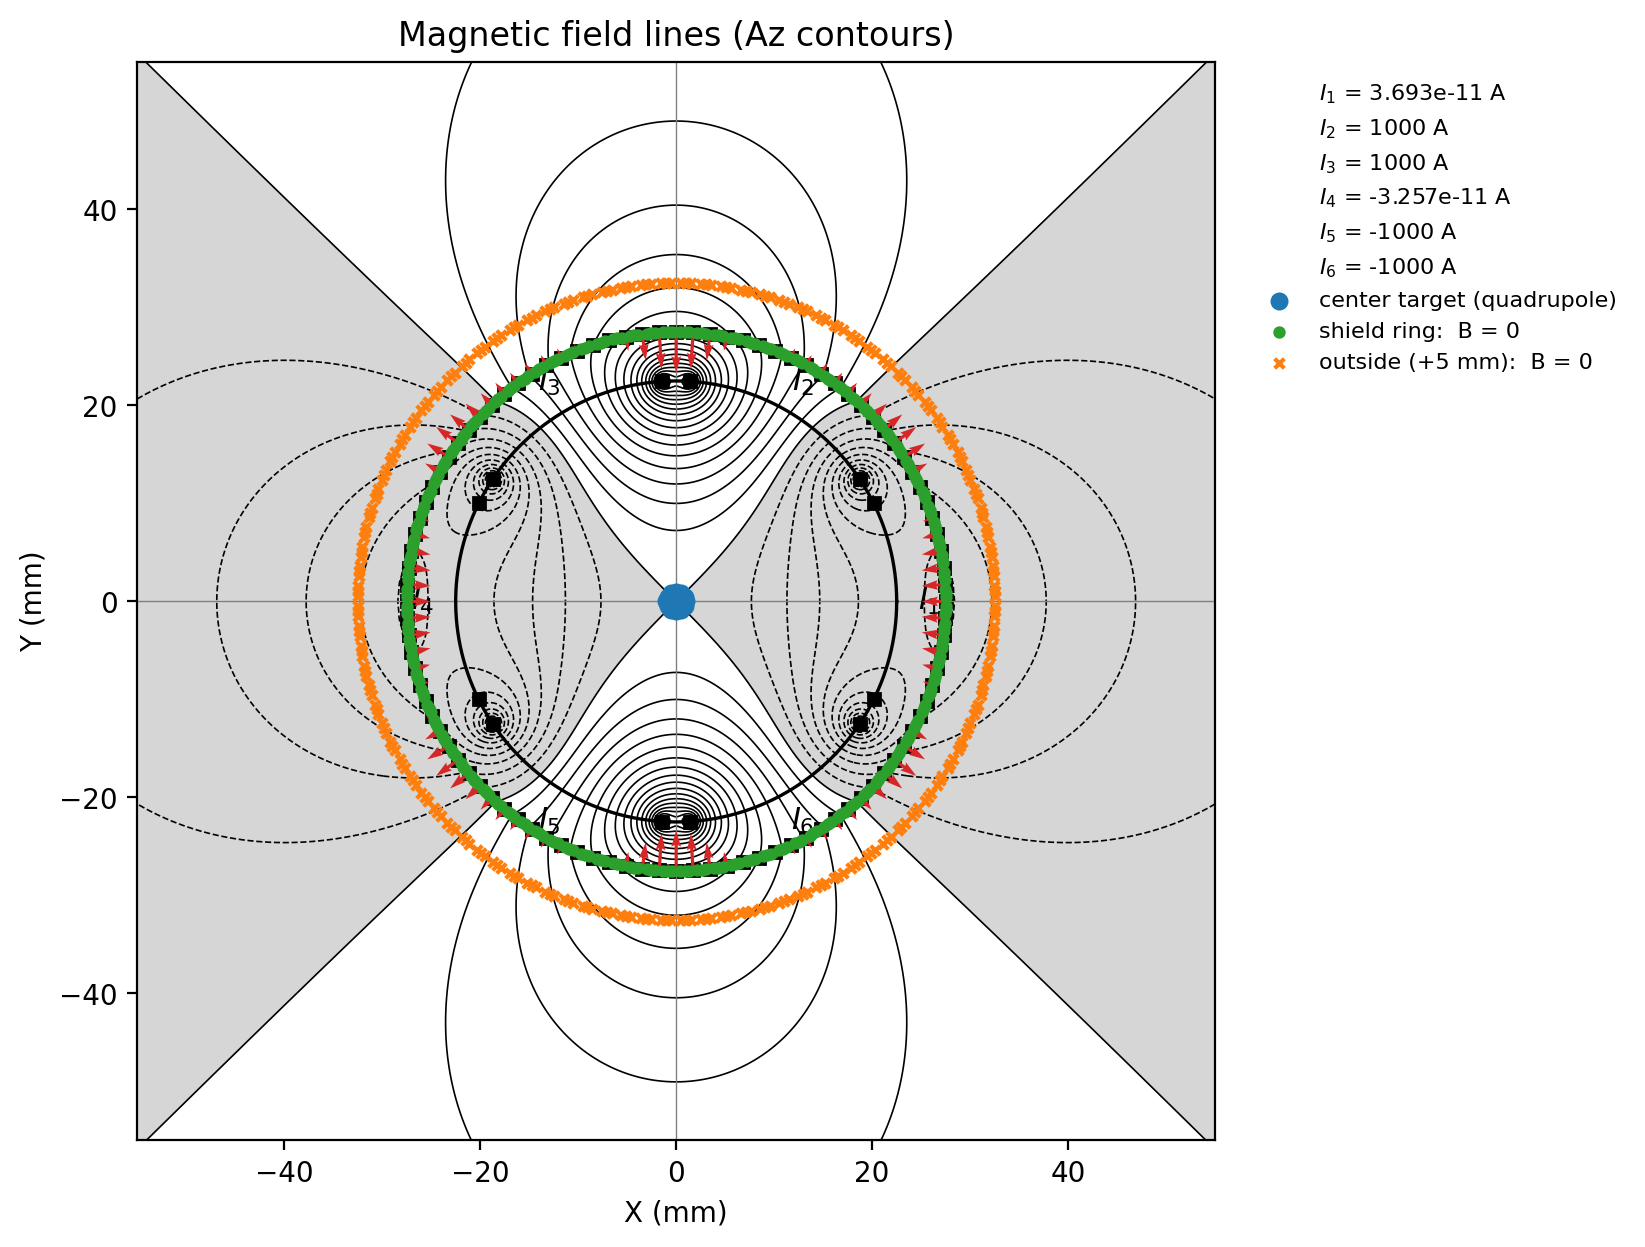
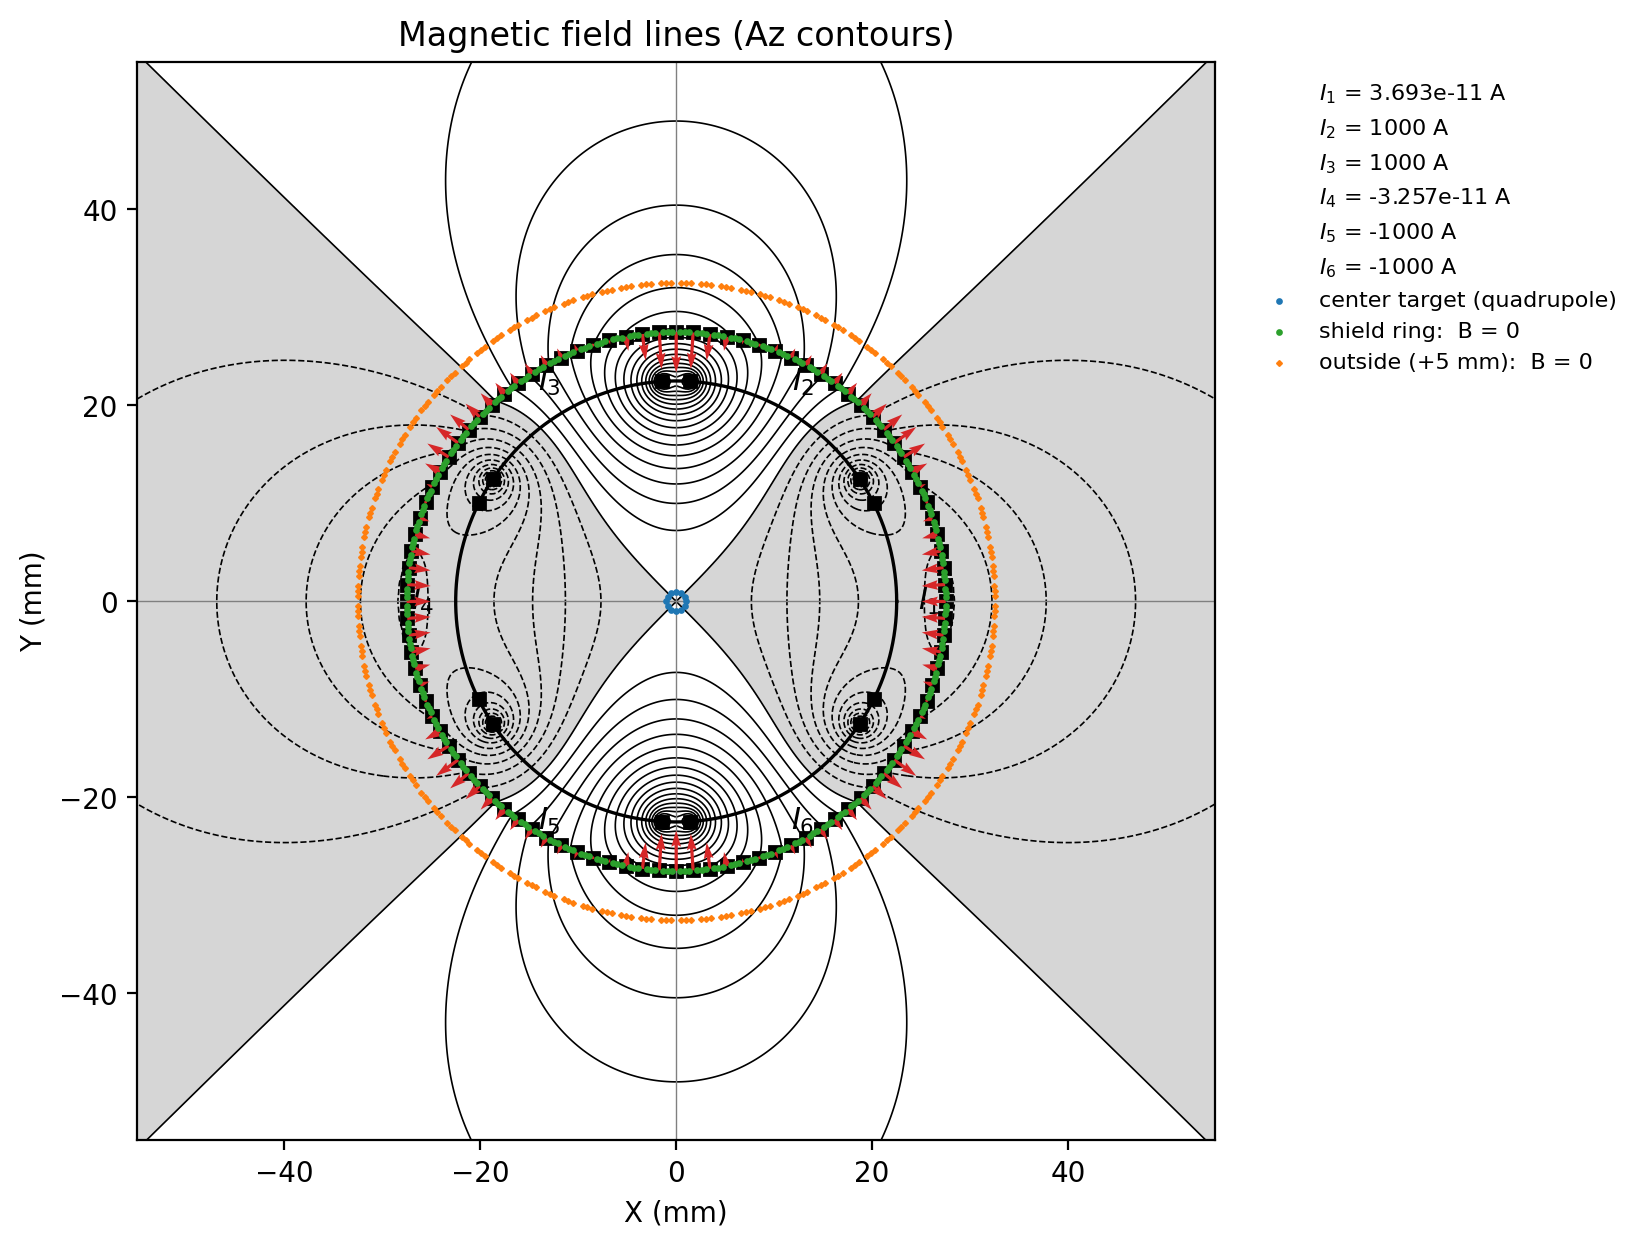
Enhance interactive features: adjust scatter point sizes for clarity, improve tooltip behavior, and add hover-arrow scaling for better visualization

Changed region(s): [[0.217, 0.2133, 0.6201, 0.7314], [0.372, 0.7314, 0.465, 0.7618], [0.403, 0.4571, 0.434, 0.518]]

diff --git a/interactive_plot.py b/interactive_plot.py
@@ -70,13 +70,23 @@ def format_B(value):
     return f"{sign}{mag / 1e-9:.4g} nT"
 
 
-def _readout_artists(ax, animated=False):
-    """Create the (hidden) tooltip and direction-arrow artists on ax."""
-    annot = ax.annotate(
-        "", xy=(0, 0), xytext=(15, 15), textcoords="offset points",
-        fontsize=9, zorder=10, visible=False, animated=animated,
-        bbox=dict(boxstyle="round", fc="lightyellow", ec="0.5", alpha=0.9),
-    )
+def _readout_artists(ax, animated=False, fixed=False):
+    """Create the (hidden) tooltip and direction-arrow artists on ax.
+
+    fixed=True pins the tooltip to a fixed corner of the axes (updated in
+    place, not following the cursor)."""
+    if fixed:
+        annot = ax.text(
+            0.015, 0.985, "", transform=ax.transAxes, ha="left", va="top",
+            fontsize=9, zorder=10, visible=False, animated=animated,
+            bbox=dict(boxstyle="round", fc="lightyellow", ec="0.5", alpha=0.9),
+        )
+    else:
+        annot = ax.annotate(
+            "", xy=(0, 0), xytext=(15, 15), textcoords="offset points",
+            fontsize=9, zorder=10, visible=False, animated=animated,
+            bbox=dict(boxstyle="round", fc="lightyellow", ec="0.5", alpha=0.9),
+        )
     arrow = ax.quiver(
         [0.0], [0.0], [1.0], [0.0], angles="xy", scale_units="xy", scale=1,
         color="tab:blue", width=0.006, zorder=9, visible=False, animated=animated,
@@ -84,15 +94,27 @@ def _readout_artists(ax, animated=False):
     return annot, arrow
 
 
-def _update_readout(event, ax, coils, annot, arrow, arrow_frac=0.08):
+def _update_readout(event, ax, coils, annot, arrow, arrow_frac=0.08,
+                    force_arrow=None, arrow_scale=None, arrow_max=None,
+                    move_annot=True):
     """
-    Update the tooltip + arrow from a mouse-motion event.
+    Update the tooltip + arrow(s) from a mouse-motion event.
     Returns True if the readout changed (needs re-blit/redraw).
+
+    arrow_scale: if given, arrow length (data units, mm) = arrow_scale*|B|
+    (capped at arrow_max), i.e. proportional to the field magnitude. If
+    None, the arrow is a fixed length (arrow_frac of the view width).
+    force_arrow: optional quiver drawn along the muon Lorentz force
+    F = q v x B (same length as the field arrow).
+    move_annot: if False the tooltip is not repositioned (kept pinned).
     """
     if event.inaxes is not ax or event.xdata is None:
-        if annot.get_visible() or arrow.get_visible():
+        force_vis = force_arrow is not None and force_arrow.get_visible()
+        if annot.get_visible() or arrow.get_visible() or force_vis:
             annot.set_visible(False)
             arrow.set_visible(False)
+            if force_arrow is not None:
+                force_arrow.set_visible(False)
             return True
         return False
 
@@ -100,16 +122,20 @@ def _update_readout(event, ax, coils, annot, arrow, arrow_frac=0.08):
     try:
         Bx, By = coils.B_field(x, y)
     except ValueError:  # cursor sitting exactly on a conductor
-        annot.xy = (x, y)
+        if move_annot:
+            annot.xy = (x, y)
         annot.set_text(f"({x:.2f}, {y:.2f}) mm\non a conductor (field singular)")
         annot.set_visible(True)
         arrow.set_visible(False)
+        if force_arrow is not None:
+            force_arrow.set_visible(False)
         return True
 
     B_mag = float(np.hypot(Bx, By))
     angle = np.degrees(np.arctan2(By, Bx))  # direction, deg CCW from +x
 
-    annot.xy = (x, y)
+    if move_annot:
+        annot.xy = (x, y)
     annot.set_text(
         f"({x:.2f}, {y:.2f}) mm\n"
         f"|B| = {format_B(B_mag)}\n"
@@ -119,13 +145,27 @@ def _update_readout(event, ax, coils, annot, arrow, arrow_frac=0.08):
     annot.set_visible(True)
 
     if B_mag > 0:
-        xlim = ax.get_xlim()
-        length = arrow_frac * (xlim[1] - xlim[0])
+        if arrow_scale is not None:
+            length = arrow_scale * B_mag              # mm, proportional to |B|
+            if arrow_max is not None:
+                length = min(length, arrow_max)
+        else:
+            xlim = ax.get_xlim()
+            length = arrow_frac * (xlim[1] - xlim[0])
+        ux, uy = Bx / B_mag, By / B_mag
         arrow.set_offsets([[x, y]])
-        arrow.set_UVC([length * Bx / B_mag], [length * By / B_mag])
+        arrow.set_UVC([length * ux], [length * uy])
         arrow.set_visible(True)
+        if force_arrow is not None:
+            # muon mu+ into the screen (v = -z): F = q v x B = e(By, -Bx),
+            # perpendicular to B, same length (|F| prop to |B|).
+            force_arrow.set_offsets([[x, y]])
+            force_arrow.set_UVC([length * uy], [length * (-ux)])
+            force_arrow.set_visible(True)
     else:
         arrow.set_visible(False)
+        if force_arrow is not None:
+            force_arrow.set_visible(False)
 
     return True
 
@@ -146,12 +186,23 @@ class _HoverReadout:
     # trail further and further behind the cursor
     MIN_INTERVAL = 1.0 / 120.0
 
-    def __init__(self, fig, ax, get_coils, arrow_frac=0.08):
+    def __init__(self, fig, ax, get_coils, arrow_frac=0.08, show_force=False,
+                 arrow_scale=None, arrow_max=None, annot_fixed=False):
         self.fig = fig
         self.ax = ax
         self.get_coils = get_coils
         self.arrow_frac = arrow_frac
-        self.annot, self.arrow = _readout_artists(ax, animated=True)
+        self.arrow_scale = arrow_scale
+        self.arrow_max = arrow_max
+        self.annot_fixed = annot_fixed
+        self.annot, self.arrow = _readout_artists(ax, animated=True, fixed=annot_fixed)
+        if show_force:
+            self.force_arrow = ax.quiver(
+                [0.0], [0.0], [0.0], [0.0], angles="xy", scale_units="xy", scale=1,
+                color="tab:red", width=0.006, zorder=9, visible=False, animated=True,
+            )
+        else:
+            self.force_arrow = None
         self._bg = None
         self._last_region = None  # display-space bbox drawn last frame
         self._last_time = 0.0
@@ -182,7 +233,12 @@ class _HoverReadout:
             # quiver window extent is unreliable; build a box around the
             # arrow base with radius = max arrow length in pixels
             px, py = self.ax.transData.transform(self.arrow.get_offsets()[0])
-            r = self.ax.bbox.width * self.arrow_frac * 1.6
+            if self.arrow_scale is not None and self.arrow_max is not None:
+                x0, x1 = self.ax.get_xlim()
+                reach_frac = self.arrow_max / abs(x1 - x0)   # mm -> view fraction
+            else:
+                reach_frac = self.arrow_frac
+            r = self.ax.bbox.width * reach_frac * 1.6
             boxes.append(Bbox([[px - r, py - r], [px + r, py + r]]))
 
         new = Bbox.union(boxes).padded(12) if boxes else None
@@ -208,7 +264,10 @@ class _HoverReadout:
                 return
             self._last_time = now
 
-        if not _update_readout(event, self.ax, coils, self.annot, self.arrow, self.arrow_frac):
+        if not _update_readout(event, self.ax, coils, self.annot, self.arrow,
+                               self.arrow_frac, self.force_arrow,
+                               self.arrow_scale, self.arrow_max,
+                               move_annot=not self.annot_fixed):
             return
         if self._bg is None:  # no full draw yet; fall back
             self.fig.canvas.draw_idle()
@@ -218,6 +277,8 @@ class _HoverReadout:
         canvas.restore_region(self._bg)
         self.ax.draw_artist(self.annot)
         self.ax.draw_artist(self.arrow)
+        if self.force_arrow is not None:
+            self.ax.draw_artist(self.force_arrow)
         # push only the small dirty region to the screen -- copying the
         # whole ~1100x650 px figure per mouse move is what feels "laggy"
         # on slower backends (especially TkAgg)

diff --git a/interactive_rotation.py b/interactive_rotation.py
@@ -45,6 +45,11 @@ G = 1e-3              # target field gradient, T/mm
 N_SAMPLE = 12        # number of sample points on the ring
 MAX_CURRENT = 1000.0  # solved currents are rescaled so max|I| = this (A) for display
 
+# hover-arrow scaling (both the blue B arrow and the red muon-force arrow):
+#   length (mm) = ARROW_MM_PER_TESLA * |B| ,  capped at ARROW_MAX_MM
+ARROW_MM_PER_TESLA = 400.0   # proportionality: arrow length in mm per tesla of |B|
+ARROW_MAX_MM = 15.0          # hard upper limit on arrow length, mm
+
 
 def rotated_quad_target(x, y, theta):
     """(Bx, By) [T] of a quadrupole field rotated by theta (rad)."""
@@ -76,7 +81,7 @@ class RotationPanel:
         self.fig = plt.figure(figsize=(8, 7.6))
         self.ax = self.fig.add_axes([0.10, 0.26, 0.80, 0.66])
         self.fig.text(0.5, 0.005,
-                      "Drag θ / radius (or type a value); currents & residual re-solve live",
+                      "Hover: blue = B, red = muon force (μ+ into screen), length ∝ |B|",
                       ha="center", fontsize=8, color="gray")
         self._field_artists = []
         self._draw_static()
@@ -93,7 +98,11 @@ class RotationPanel:
         self.radius_slider, self.radius_box = self._add_slider_box(
             0.065, "sample r (mm)", 0.2, r_max, self.sample_r, self._on_radius)
 
-        self._hover = _HoverReadout(self.fig, self.ax, lambda: self.coils)
+        # hover: blue arrow = B, red arrow = muon force (mu+ into screen);
+        # both lengths prop. to |B| (capped); readout box pinned to a corner.
+        self._hover = _HoverReadout(
+            self.fig, self.ax, lambda: self.coils, show_force=True,
+            arrow_scale=ARROW_MM_PER_TESLA, arrow_max=ARROW_MAX_MM, annot_fixed=True)
         self._refresh()
 
     # ----------------------------------------------------------- precompute

diff --git a/example.py b/example.py
@@ -96,11 +96,11 @@ def main():
     solved.draw(ax, extent=2, legend=False)
 
     sx, sy = np.asarray(solver.sample_x), np.asarray(solver.sample_y)
-    ax.scatter(sx[:n_center], sy[:n_center], s=30, c="tab:blue",
+    ax.scatter(sx[:n_center], sy[:n_center], s=2, c="tab:blue",
                marker="o", zorder=5, label="center target (quadrupole)")
-    ax.scatter(sx[shield_start:outside_start], sy[shield_start:outside_start], s=12,
+    ax.scatter(sx[shield_start:outside_start], sy[shield_start:outside_start], s=2,
                c="tab:green", marker="o", zorder=5, label="shield ring:  B = 0")
-    ax.scatter(sx[outside_start:n_pts], sy[outside_start:n_pts], s=12,
+    ax.scatter(sx[outside_start:n_pts], sy[outside_start:n_pts], s=2,
                c="tab:orange", marker="x", zorder=5, label="outside (+5 mm):  B = 0")
     ax.legend(loc="upper left", bbox_to_anchor=(1.02, 1.0), frameon=False, fontsize=8)
 
